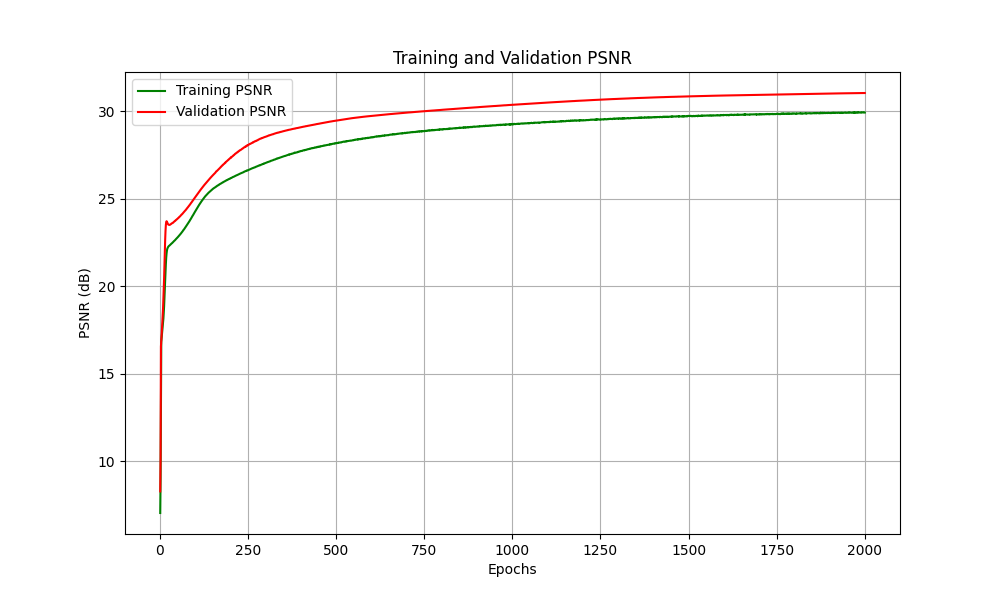
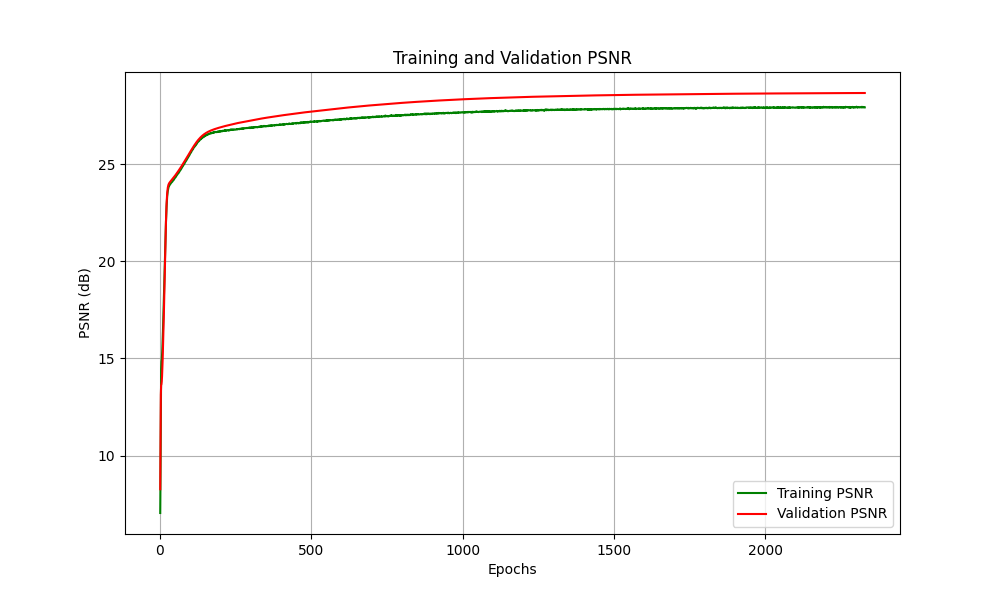
Fix all errors and bugs

diff --git a/src/inference.py b/src/inference.py
@@ -4,29 +4,7 @@ import numpy as np
 import os
 from torchvision.transforms import ToTensor
 from model import SRCNN
-from utils import bgr2ycbcr, image2tensor, tensor2image, ycbcr2bgr
-
-# def pre_upscale_image(image_path, f1=9, f2=5, f3=5):
-#     """
-#     Function to upscale the image using bicubic interpolation so that after inference, 
-#     the output dimensions match the original image
-    
-#     - Formula: (fsub - f1 - f2 - f3 + 3)
-#     """
-#     # Read the image
-#     image = cv2.imread(image_path)
-
-#     # Get original dimensions
-#     h, w = image.shape[:2]
-
-#     # Calculate the upscaled size (fsub) required to recover the original dimensions
-#     upscale_h = h + f1 + f2 + f3 - 3
-#     upscale_w = w + f1 + f2 + f3 - 3
-
-#     # Resize the image using bicubic interpolation
-#     upscaled_image = cv2.resize(image, (upscale_w, upscale_h), interpolation=cv2.INTER_CUBIC)
-
-#     return upscaled_image
+from utils import bgr2ycbcr, image2tensor, tensor2image, ycbcr2bgr, PSNR
 
 def crop_center_images(image_path, f1, f2, f3):
     """
@@ -51,9 +29,9 @@ def crop_center_images(image_path, f1, f2, f3):
 
     return cropped_image
 
-def inference(image_path, model_path, output_path):
+def inference(image_path, model_path, output_path, hr_image_path):
     """
-    Perform inference using the trained SRCNN model.
+    Perform inference using the trained SRCNN model and calculate PSNR.
     """
     # Check device
     device = 'cuda' if torch.cuda.is_available() else 'cpu'
@@ -66,14 +44,14 @@ def inference(image_path, model_path, output_path):
     # Set model to evaluation mode
     model.eval()
 
-    # Read original image
+    # Read original HR image
+    hr_image = cv2.imread(hr_image_path, cv2.IMREAD_UNCHANGED).astype(np.float32) / 255.0
+
+    # Read original LR image
     ori_image = cv2.imread(image_path, cv2.IMREAD_UNCHANGED).astype(np.float32) / 255.0
 
     # Crop the center region of image 
     crop_image = crop_center_images(image_path, f1=9, f2=1, f3=5)
-
-    # # Pre-upscale the image
-    # upscaled_image = pre_upscale_image(image_path, f1, f2, f3)
 
     # Convert to float32 and normalize
     crop_image = crop_image.astype(np.float32) / 255.0
@@ -104,9 +82,26 @@ def inference(image_path, model_path, output_path):
     cv2.imwrite(output_path, sr_image * 255.0)
     print(f"Super-resolved image saved to {output_path}")
 
-if __name__ == "__main__":
-    image_path = "C:/Users/Hezron Ling/Desktop/lr_butterfly.png"  # Path to input image
-    model_path = "C:/Users/Hezron Ling/Desktop/SRCNN_model_x3/SRCNN_model_2000.pth"  # Path to trained model
-    output_path = "C:/Users/Hezron Ling/Desktop/lr_butterfly_x3.png"  # Path to save output image
+    # Calculate PSNR
+    # Convert HR and SR images to tensors
+    hr_tensor = image2tensor(hr_image, False, False).unsqueeze(0).to(device)
+    sr_tensor = image2tensor(sr_image, False, False).unsqueeze(0).to(device)
 
-    inference(image_path, model_path, output_path)
+    # Calculate PSNR for SR and HR
+    psnr_sr_hr = PSNR(hr_tensor, sr_tensor)
+    print(f"PSNR between SR image and HR image: {psnr_sr_hr:.2f} dB")
+
+    # Convert LR image to tensor
+    lr_tensor = image2tensor(crop_image, False, False).unsqueeze(0).to(device)
+
+    # Calculate PSNR for LR and HR
+    psnr_lr_hr = PSNR(hr_tensor, lr_tensor)
+    print(f"PSNR between LR image and HR image: {psnr_lr_hr:.2f} dB")
+
+if __name__ == "__main__":
+    lr_image_path = "C:/Users/Hezron Ling/Desktop/lr_butterfly.png"  # Path to input image
+    model_path = "C:/Users/Hezron Ling/Desktop/SRCNN_x3/SRCNN_915_5000/SRCNN_model_2300.pth"  # Path to trained model
+    output_path = "C:/Users/Hezron Ling/Desktop/lr_butterfly_x3_2300.png"  # Path to save output image
+    hr_image_path = "C:/Users/Hezron Ling/Desktop/butterfly.png"
+
+    inference(lr_image_path, model_path, output_path, hr_image_path)

diff --git a/README.md b/README.md
@@ -28,8 +28,10 @@ SRCNN is a simple but effective model consisting of three main layers:
 ### Comparison: Low-Resolution vs Super-Resolution (SRCNN Output)  
 
 | **Low-Resolution Image**                         | **SRCNN Super-Resolution Image (x3)**                       | **Original High-Resolution Image**                        |
-|--------------------------------------------------|-------------------------------------------------------|---------------------------------------------------------|
+|--------------------------------------------------|------------------------------------------------------------|----------------------------------------------------------|
 | <img src="pictures/lr_butterfly.png" alt="Low Resolution" width="400"/> | <img src="pictures/lr_butterfly_x3.png" alt="Super Resolution" width="400"/> | <img src="pictures/original.png" alt="High Resolution" width="400"/> |
+| PSNR: **23.03 dB** (LR vs HR)                     | PSNR: **23.13 dB** (SR vs HR)                                |                                                          |
+
 ---
 
 ## 📂 Repository Structure  
@@ -74,8 +76,8 @@ Below is the structure of the repository along with a brief description of each 
 
 | **Metric**              | **Training**   | **Validation** |
 |--------------------------|----------------|----------------|
-| **Loss**                | 0.000067       | 0.001068       |
-| **PSNR (dB)**           | 29.914         | 31.029         |
+| **Loss**                | 0.000108       | 0.0019       |
+| **PSNR (dB)**           | 27.937         | 28.651        |
 
 - **Dataset**:  
   - **Training Data**:  
